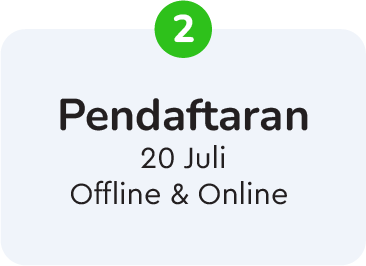
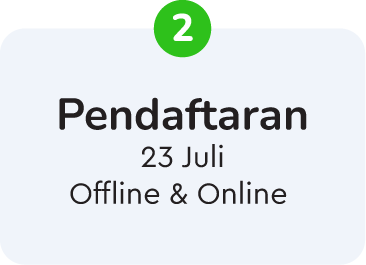
ganti tanggal, ganti warna tombol

diff --git a/components/Header.vue b/components/Header.vue
@@ -234,7 +234,7 @@
                 <img src="timeline/timeline1.png" />
                 <a
                 href="https://drive.google.com/file/d/16Gcbi80Ty_Qz8iRwLGjcVgkLxLFv1GjX/view?usp=sharing"
-                button class="absolute bg-green-500 hover:bg-green-800 rounded-full text-white px-10 py-2 bottom-4 left-1/2 -translate-x-1/2">Panduan
+                button class="absolute bg-purple-600 hover:bg-purple-800 rounded-full text-white px-10 py-2 bottom-4 left-1/2 -translate-x-1/2">Panduan
                 </a>
               </div>
           </div>
@@ -248,7 +248,7 @@
               <img class="header-logo" src="timeline/timeline4.png">
               <a
               href="https://drive.google.com/uc?export=download&id=167Q09iXRw-RpNux1NftSIen1UulyIpVV"
-              button class="absolute bg-green-500 hover:bg-green-800 rounded-full text-center w-64 text-white px-10 py-2 bottom-9 left-2/4 -translate-x-1/2"> Unduh Poster 
+              button class="absolute bg-orange-600 hover:bg-orange-800 rounded-full text-center w-64 text-white px-10 py-2 bottom-9 left-2/4 -translate-x-1/2"> Unduh Poster 
               </a>
           </div>
         </div>
